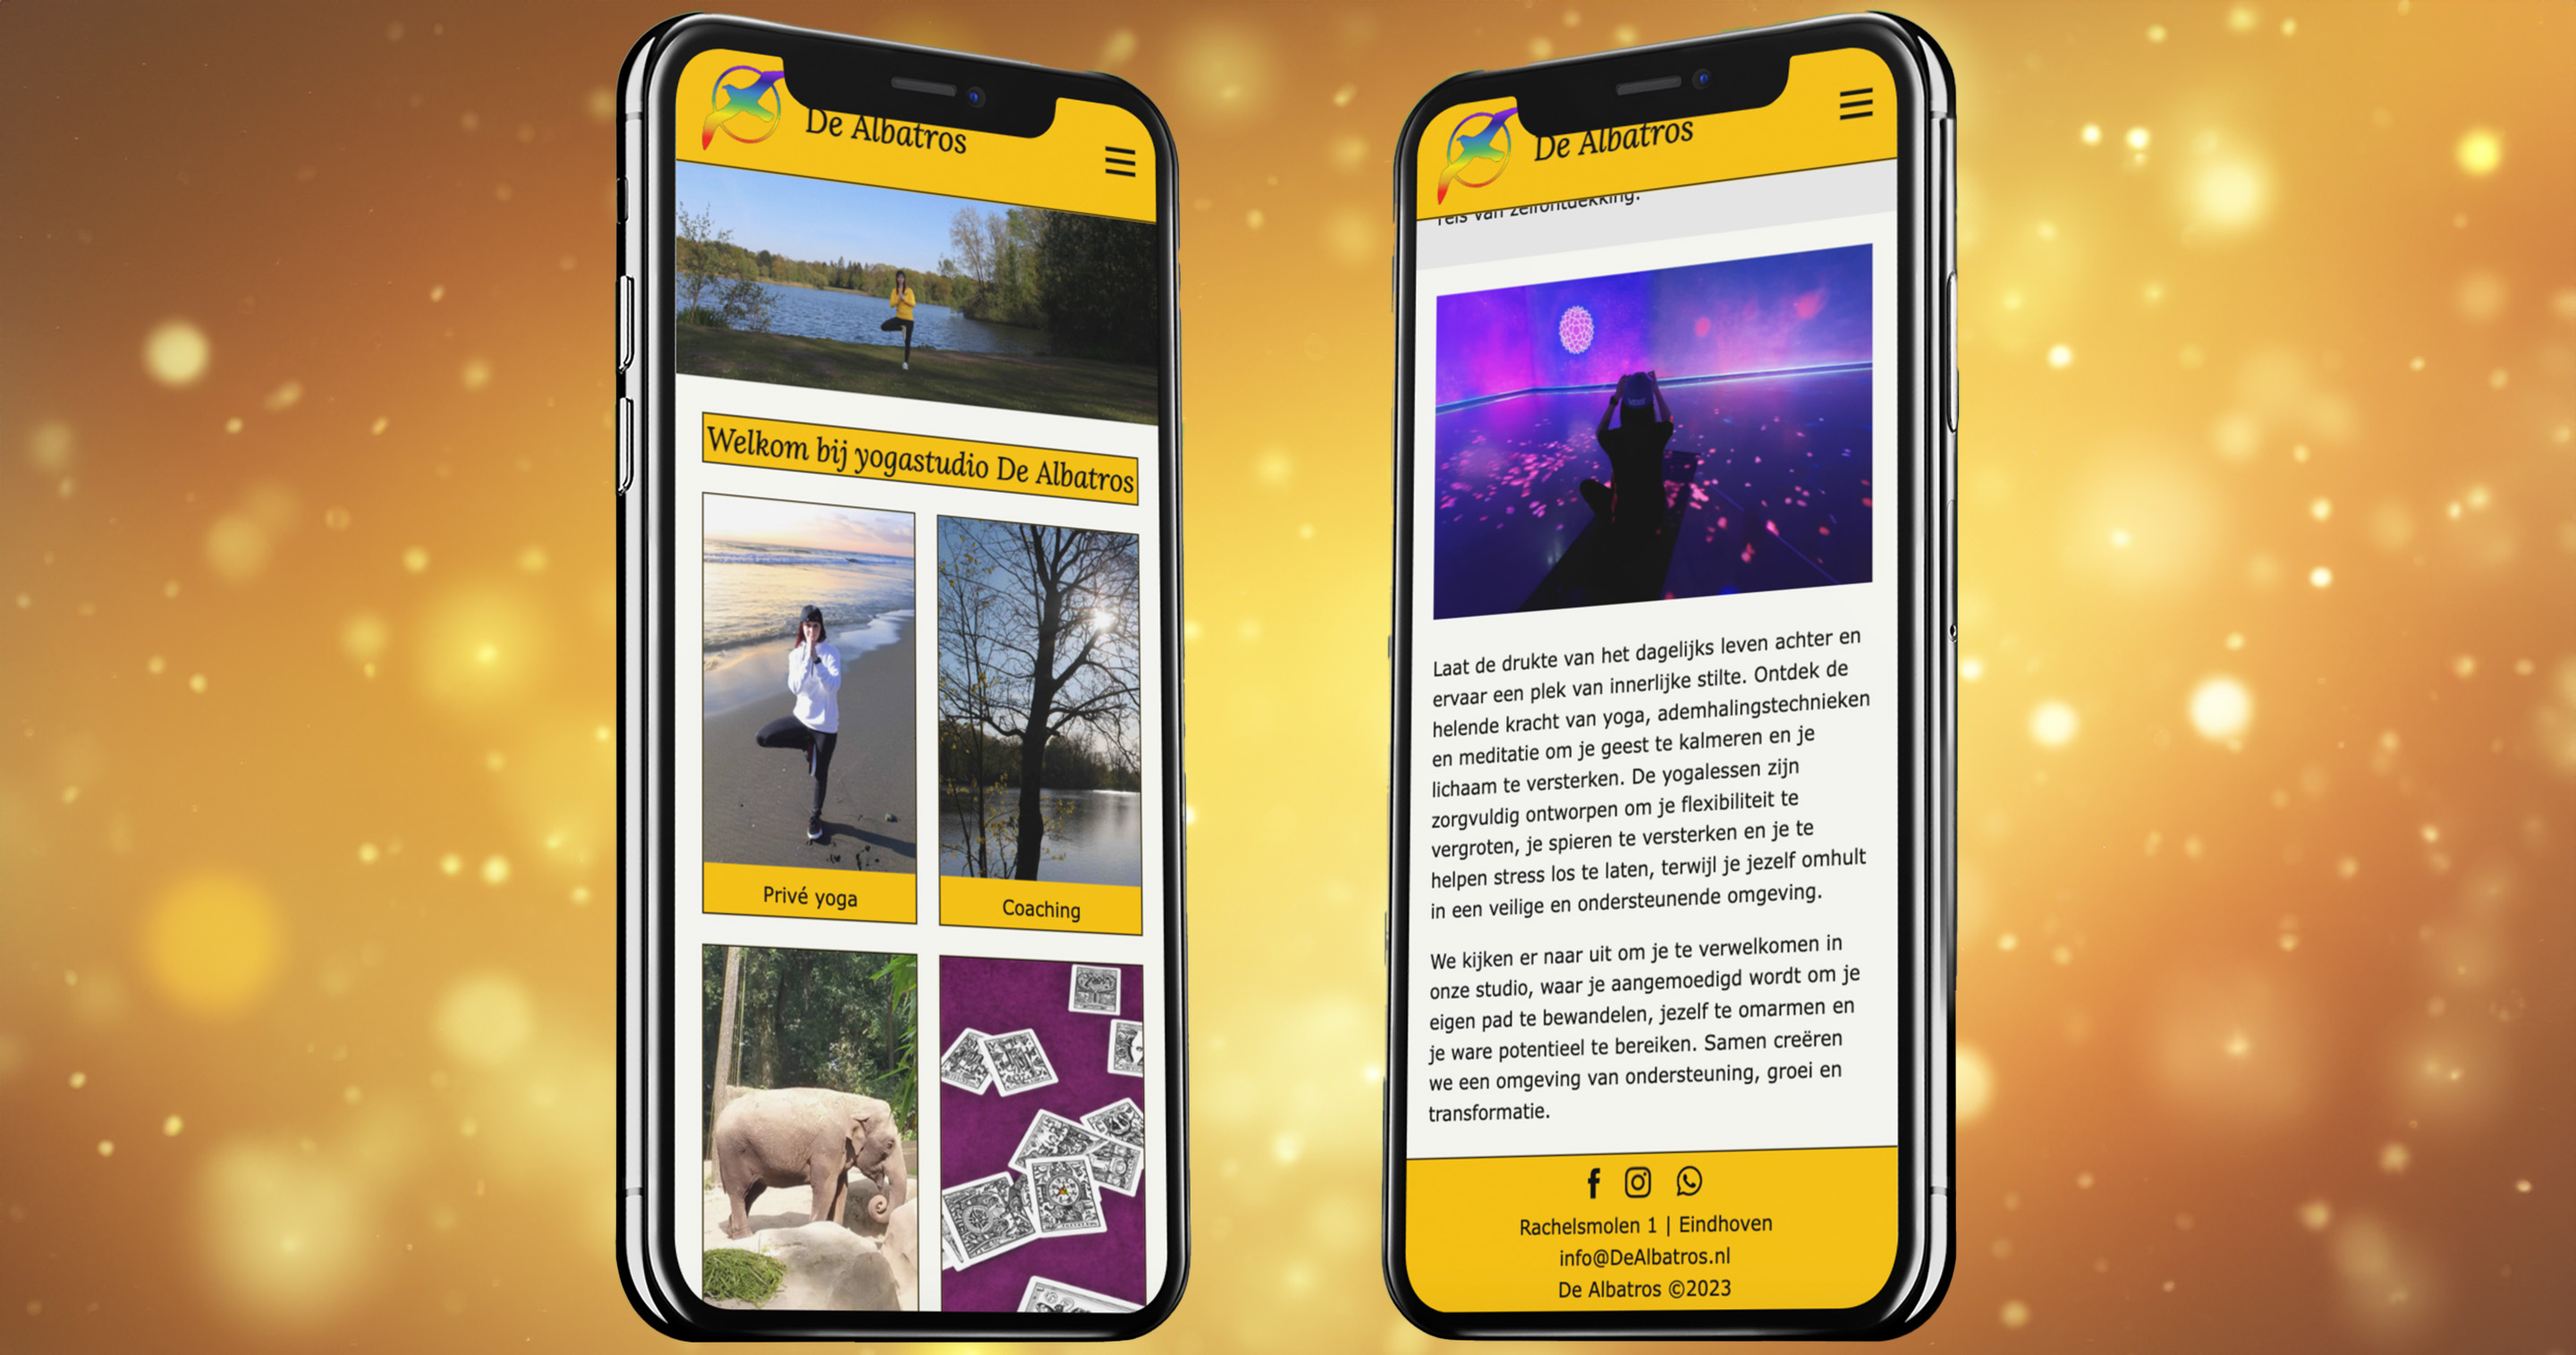
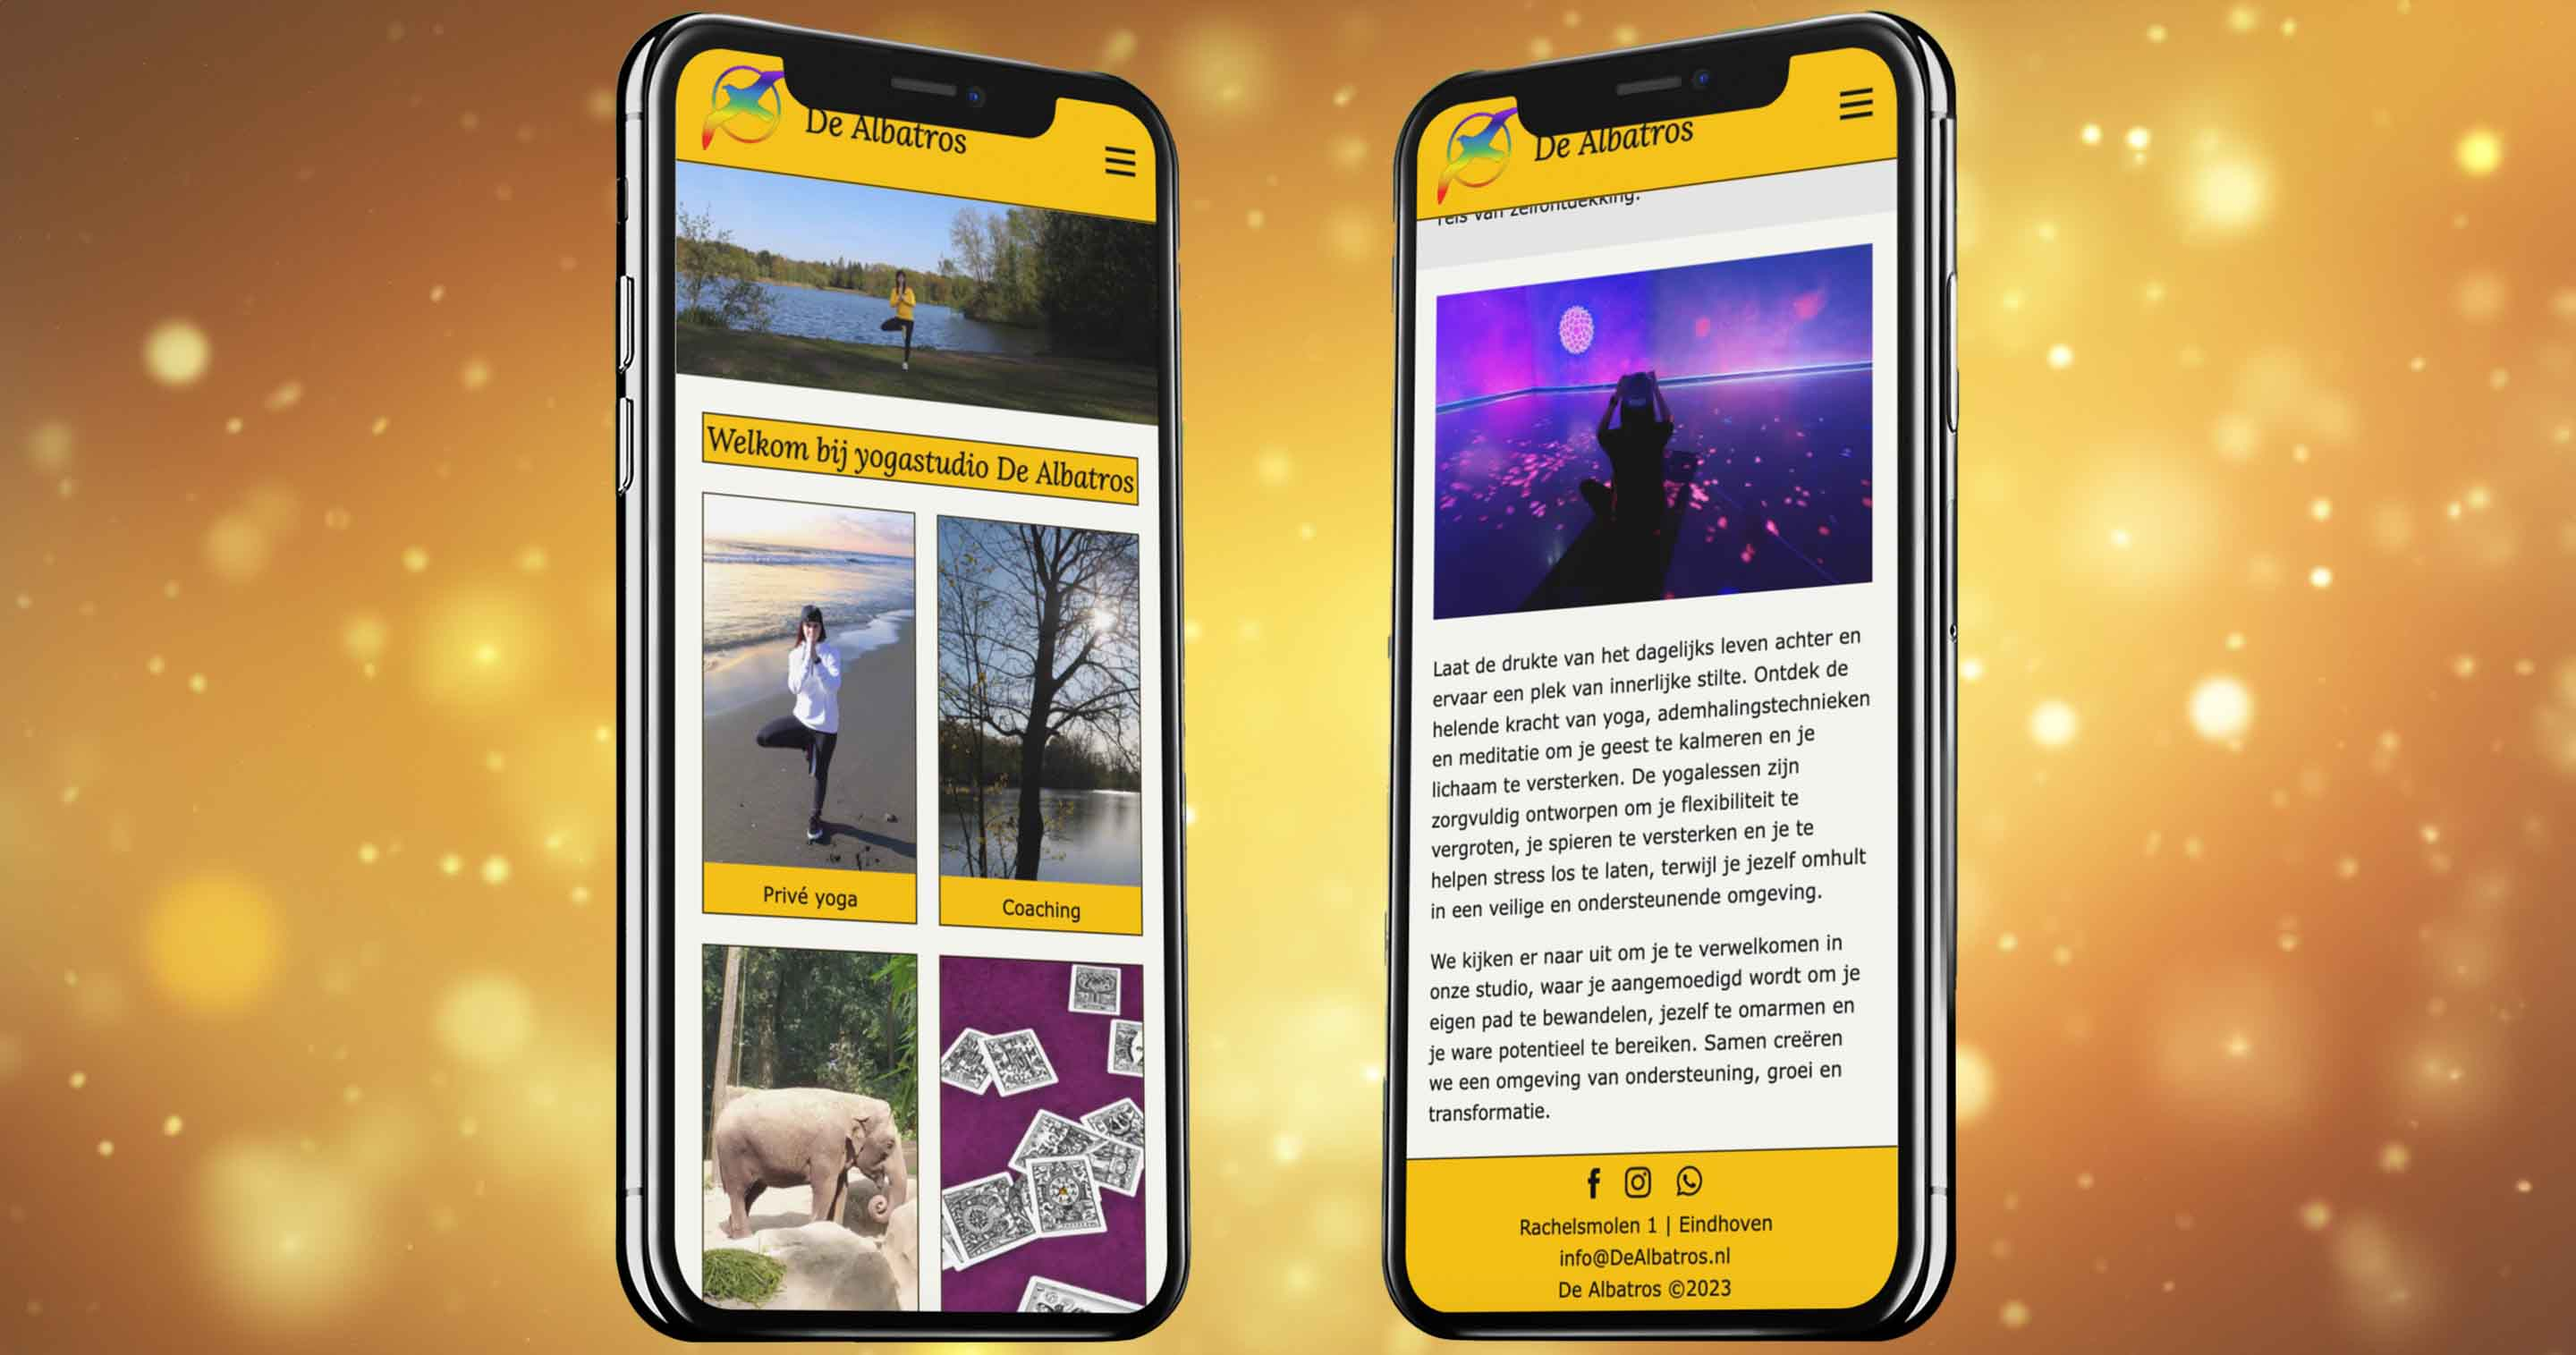
button naar projecten

diff --git a/style.css b/style.css
@@ -14,6 +14,21 @@ body, html {
     border-bottom: 2px solid #F5BF00;
 }
 
+.bottomRightButton {
+    font-family: 'Rubik', 'Verdana', 'Arial', 'Times New Roman';
+    font-weight: bold;
+    display: inline-block;
+    text-align: center;
+    padding: 10px 20px;
+    border-image: linear-gradient(to bottom right, #F5BF00, #fd8f28, #f8410f);
+    border-image-slice: 1;
+    background-image: linear-gradient(to bottom right, #F5BF00, #fd8f28, #f8410f);
+    -webkit-background-clip: border-box;
+    background-clip: border-box;
+    color: #090909;
+    text-decoration: none;
+}
+
 #menubar {
     display: none;
 }
@@ -58,22 +73,6 @@ h2::after{
     margin-left: 10px;
 }
 
-.button-container {
-    position: fixed;
-    bottom: 20px; /* Aanpassen aan de gewenste afstand vanaf de onderkant */
-    right: 20px; /* Aanpassen aan de gewenste afstand vanaf de rechterkant */
-}
-
-.bottom-right-button {
-    display: inline-block;
-    padding: 10px 20px;
-    background-color: #007bff; /* Pas de kleur aan zoals gewenst */
-    color: #fff; /* Tekstkleur */
-    text-decoration: none;
-    border-radius: 5px; /* Afgeronde hoeken */
-    font-weight: bold;
-}
-
 /* Mobiel */ 
 @media screen and (max-width: 480px) {
     /* Tekst */
@@ -93,6 +92,7 @@ h2::after{
         line-height: 1.5;
     }
 
+    h1,
     p.heading {
         color: #F5BF00;
         font-family: 'Roboto', 'Verdana', 'Arial', 'Times New Roman';
@@ -268,6 +268,11 @@ h2::after{
     }
 
     /* Home */
+    .bottomRightButton,
+    .buttonContainer {
+        display: none;
+    }
+    
     .tekstgedeelte {
         margin: 20px 20px 40px 20px;
     }
@@ -419,6 +424,7 @@ h2::after{
         line-height: 1.5;
     }
 
+    h1,
     p.heading {
         color: #F5BF00;
         font-family: 'Roboto', 'Verdana', 'Arial', 'Times New Roman';
@@ -592,6 +598,11 @@ h2::after{
     }
 
     /* Home */
+    .bottomRightButton,
+    .buttonContainer {
+        display: none;
+    }
+    
     #about {
         scroll-margin-top: 200px;
         width: 100%;
@@ -800,6 +811,7 @@ h2::after{
         line-height: 1.5;
     }
 
+    h1,
     p.heading {
         color: #F5BF00;
         font-family: 'Roboto', 'Verdana', 'Arial', 'Times New Roman';
@@ -901,6 +913,11 @@ h2::after{
     }
 
     /* Home */
+    .bottomRightButton,
+    .buttonContainer {
+        display: none;
+    }
+
     #about {
         scroll-margin-top: 200px;
         width: 100%;
@@ -1144,6 +1161,7 @@ h2::after{
         line-height: 1.5;
     }
 
+    h1,
     p.heading {
         color: #F5BF00;
         font-family: 'Roboto', 'Verdana', 'Arial', 'Times New Roman';
@@ -1248,8 +1266,18 @@ h2::after{
     }
 
     /* Home */
+    .buttonContainer {
+        position: fixed;
+        bottom: 20px;
+        right: 20px; 
+    }
+    
+    .bottomRightButton:hover {
+        opacity: 0.8;
+    }
+
     #about {
-        scroll-margin-top: 200px;
+        scroll-margin-top: 50px;
         width: 100%;
         display: flex;
         flex-direction: column;

diff --git a/index.html b/index.html
@@ -68,8 +68,8 @@
 
     <img class="backgroundImage" src="images/achtergrondWeb.jpg" alt="girlOnFire">
 
-    <div class="button-container">
-        <a href="#myProjects" class="bottom-right-button">Bekijk projecten</a>
+    <div class="buttonContainer">
+        <a href="#myProjects" class="bottomRightButton">Bekijk projecten</a>
     </div>
 
     <section id="about">
@@ -80,7 +80,7 @@
         <div class="allTextAbout">
             <div class="tekstgedeelte">
                 <div class="paragraph">
-                    <p class="heading">Hi, ik ben Talitha van der Vlies!</p>
+                    <h1>Hi, ik ben Talitha van der Vlies!</h1>
                     <p>Een student ICT & Media Design (associate degree) aan de Fontys in Eindhoven, op zoek naar een uitdagende afstudeerstage als front-end developer.</p>
                     <div class="socialMediaHomeContainer">
                         <div class="imageContainer">

diff --git a/aladdingame.html b/aladdingame.html
@@ -70,9 +70,9 @@
 
     <section class="mediaProject content-wrap">
         <div class="widthFifty">
-            <img class="projectPicture" src="images/aladdinGameStart.png" alt="Aladdin startscherm"/>
+            <img class="projectPicture" src="images/aladdinGameStart.jpg" alt="Aladdin startscherm"/>
             <img class="projectPicture" src="images/aladdinGame.jpg" alt="Aladdin game"/>
-            <img class="projectPicture" src="images/aladdinGameReplay.png" alt="Aladdin replay"/>
+            <img class="projectPicture" src="images/aladdinGameReplay.jpg" alt="Aladdin replay"/>
         </div>
 
         <div class="textProject">

diff --git a/main.js b/main.js
@@ -50,3 +50,13 @@ if (window.innerWidth <= 768) {
       });
   });
 }
+
+window.addEventListener('scroll', function() {
+    var buttonContainer = document.querySelector('.buttonContainer');
+    
+    if (window.scrollY > 100) { 
+        buttonContainer.style.display = 'none';
+    } else {
+        buttonContainer.style.display = 'block';
+    }
+});
